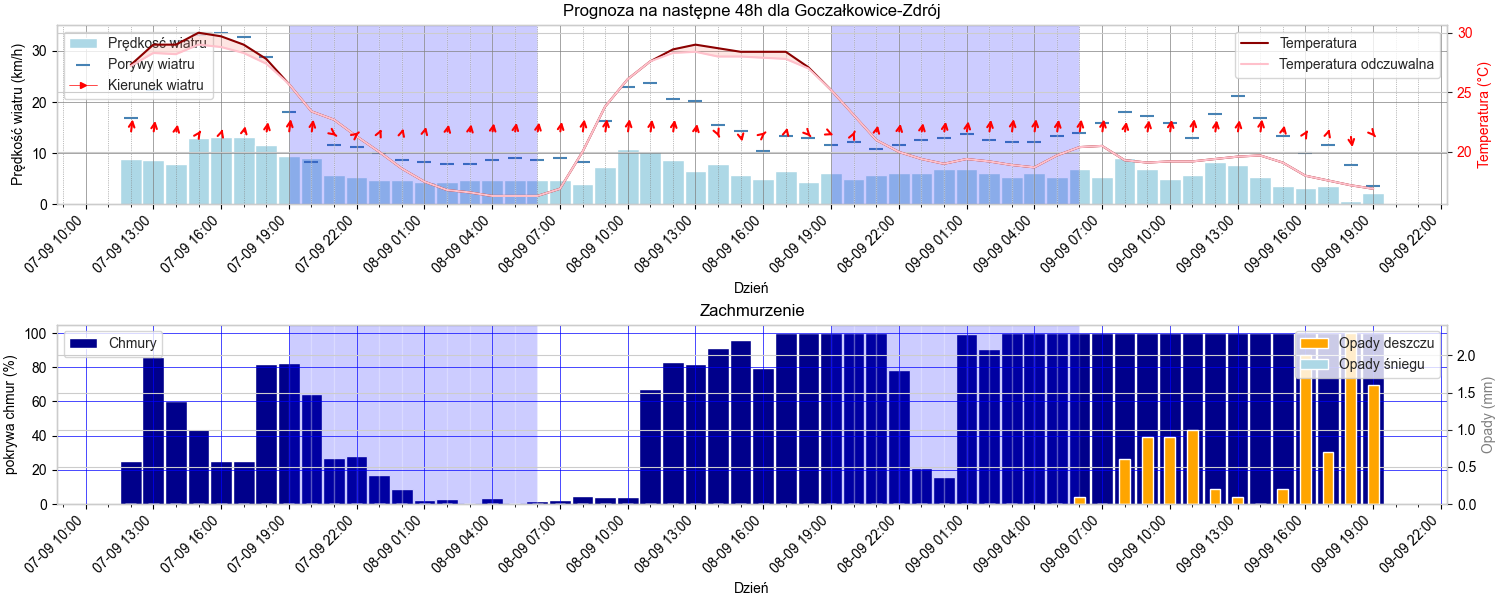
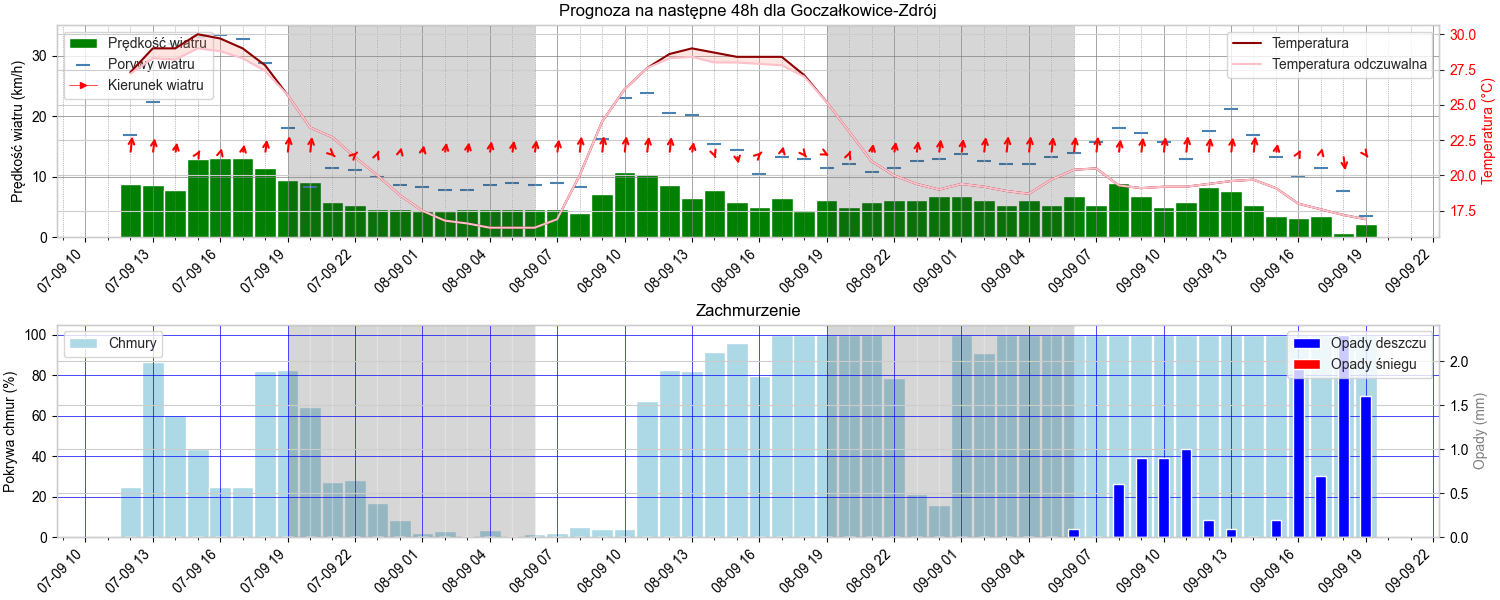
Changed colors of graphs in data_plot.py

diff --git a/data_plot_.py b/data_plot_.py
@@ -1,5 +1,4 @@
 from typing import Any
-
 import matplotlib.pyplot as plt
 import matplotlib.dates as mdates
 from matplotlib.lines import Line2D
@@ -8,10 +7,10 @@ import numpy as np
 import seaborn as sns
 import pandas as pd
 
-FILE ='./data_weather/visualcrossing.csv'
+FILE = './data_weather/visualcrossing.csv'
 CONFIG_FILE = 'Config_file.toml'
 
-def modify_loc(location:str)->str:
+def modify_loc(location: str) -> str:
     '''
     Shortens the name of location to only city name
     '''
@@ -30,7 +29,7 @@ def night_hours(data: pd.DataFrame, ax1: Any, ax2: Any) -> None:
             ax1.axvspan(current_time, next_time, facecolor='#333333', alpha=0.2)
             ax2.axvspan(current_time, next_time, facecolor='#333333', alpha=0.2)
 
-def get_data(hours: int)->pd.DataFrame:
+def get_data(hours: int) -> pd.DataFrame:
     '''
     Loads data from specified *.csv file for given number of hours. 
     Returns 'DataFrame' object.
@@ -74,7 +73,11 @@ def main():
 
     # Setting X axis labels for the upper graph
     ax[0].xaxis.set_major_formatter(mdates.DateFormatter('%d-%m %H'))  # Format as day-month hour
-    ax[0].xaxis.set_major_locator(mdates.HourLocator(interval=3))  
+
+    # Zmieniamy lokalizator główny na godziny co 2 (parzyste godziny)
+    ax[0].xaxis.set_major_locator(mdates.HourLocator(byhour=range(0, 24, 2)))
+
+    # Pozostawiamy lokalizator mniejszy co godzinę
     ax[0].xaxis.set_minor_locator(mdates.HourLocator())  
     plt.setp(ax[0].xaxis.get_majorticklabels(), rotation=45, ha='right')
 
@@ -113,8 +116,12 @@ def main():
     ax_right_dwn.tick_params(axis='y', labelcolor='black')
 
     # Setting axis labels for the lower graph
-    ax_left_dwn.xaxis.set_major_formatter(mdates.DateFormatter('%d-%m %H'))
-    ax_left_dwn.xaxis.set_major_locator(mdates.HourLocator(interval=3))  
+    ax_left_dwn.xaxis.set_major_formatter(mdates.DateFormatter('%d-%m %H'))  # Format as day-month hour
+
+    # Zmieniamy lokalizator główny na godziny co 2 (parzyste godziny)
+    ax_left_dwn.xaxis.set_major_locator(mdates.HourLocator(byhour=range(0, 24, 2)))
+
+    # Pozostawiamy lokalizator mniejszy co godzinę
     ax_left_dwn.xaxis.set_minor_locator(mdates.HourLocator())  
     plt.setp(ax_left_dwn.xaxis.get_majorticklabels(), rotation=45, ha='right')
 
